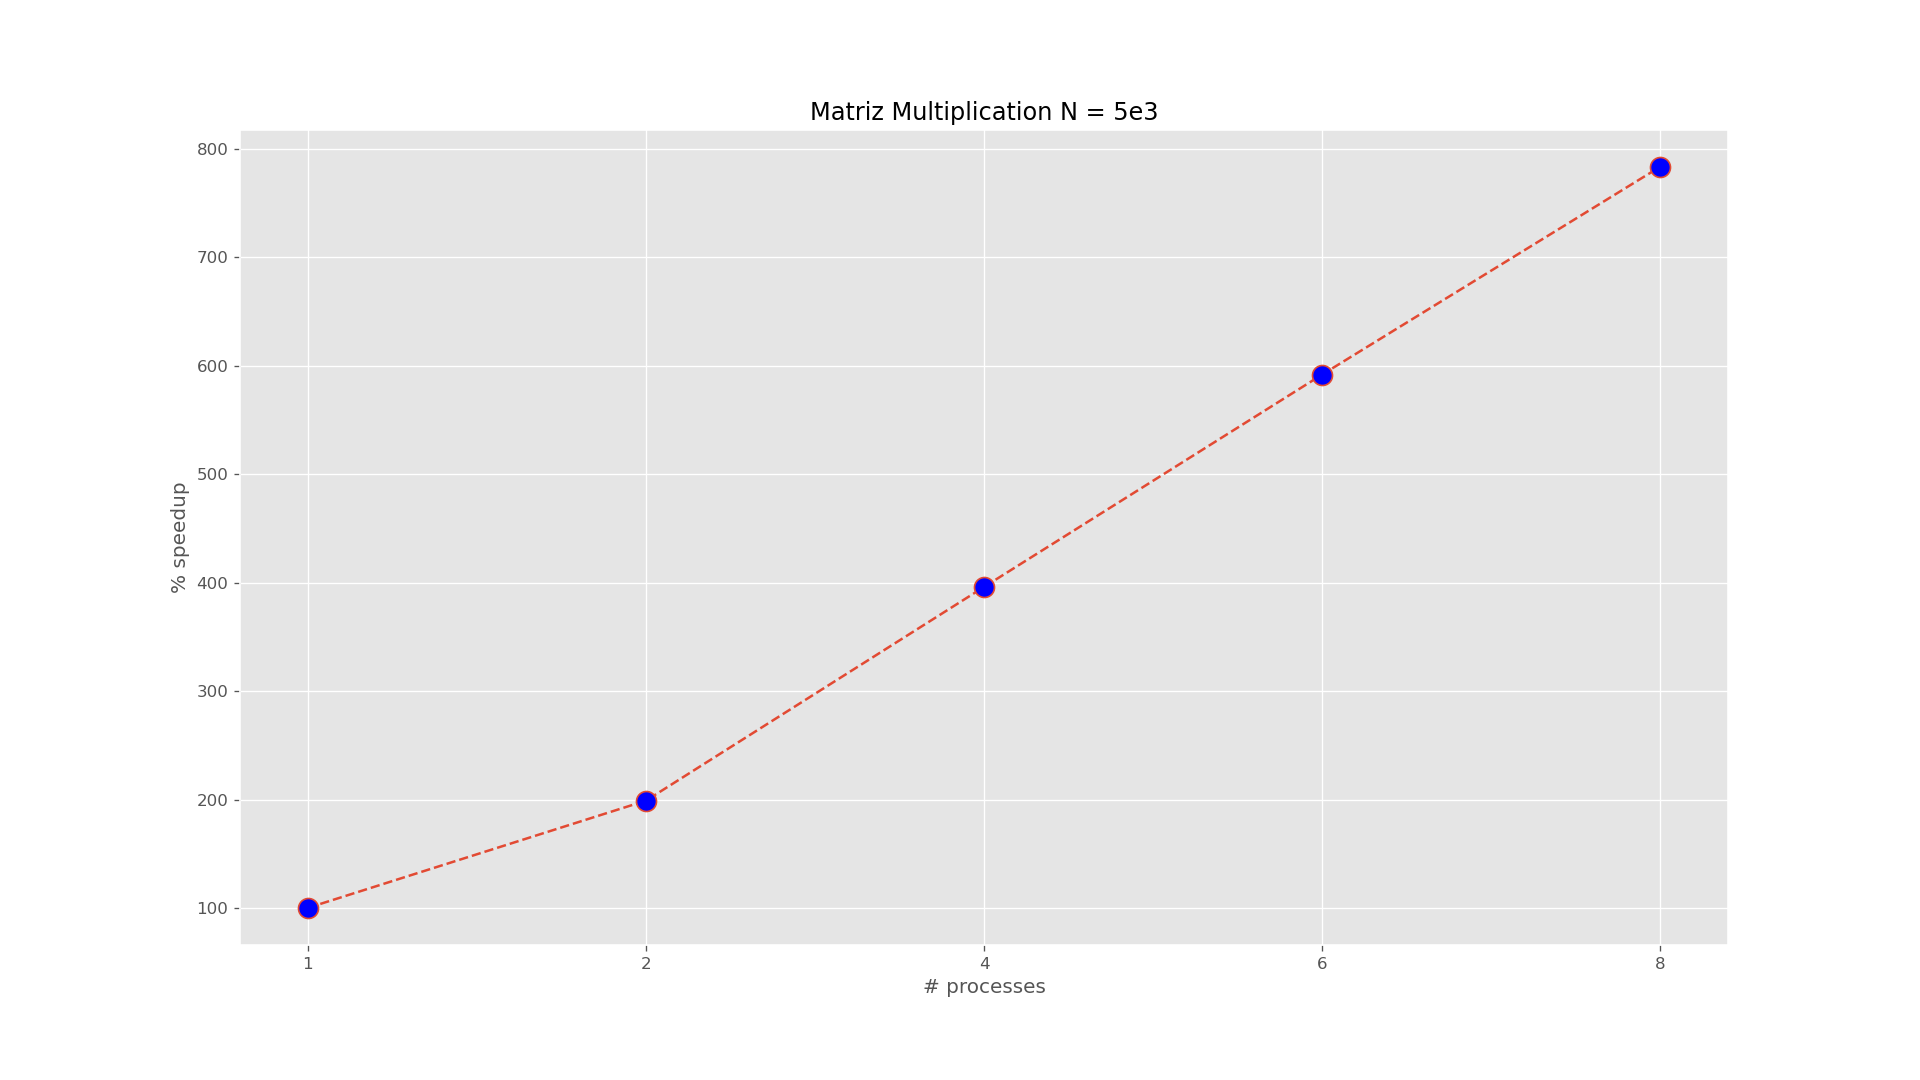
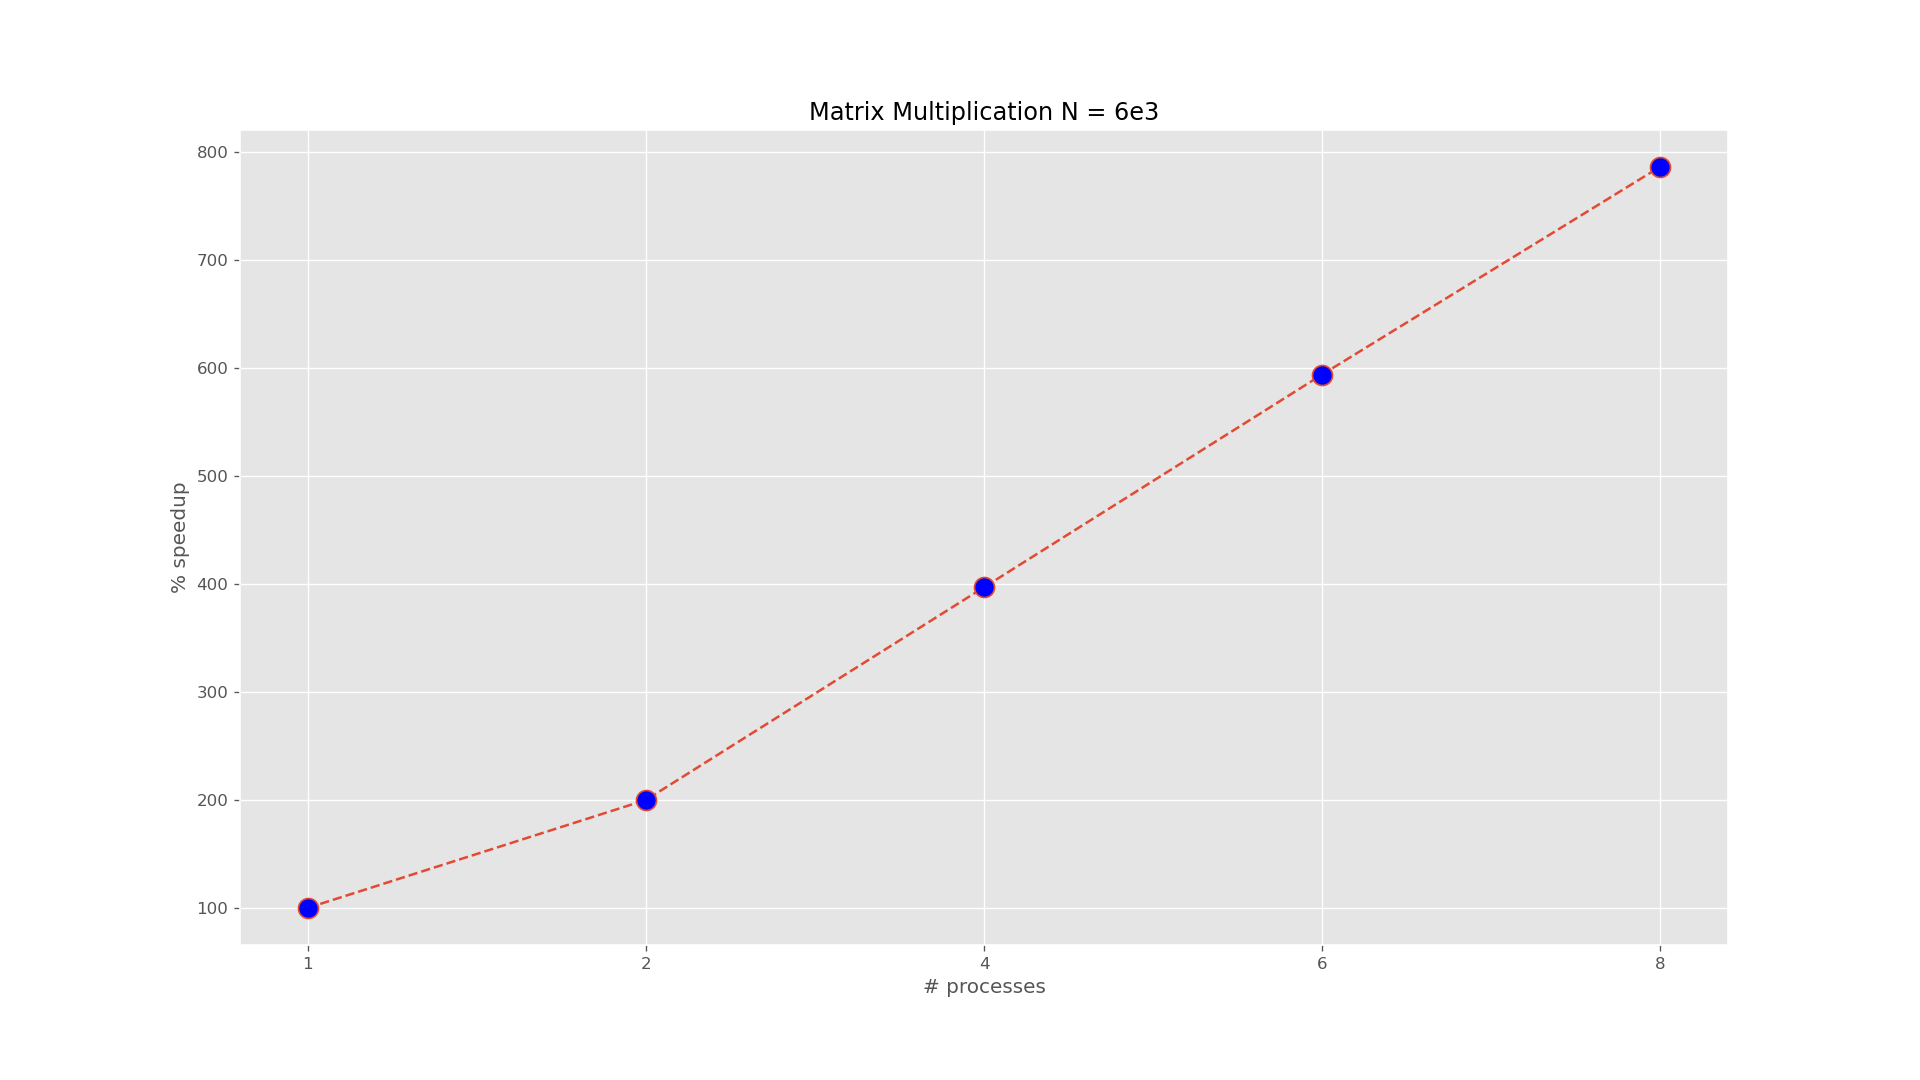
a07 - added plots for gather and N=6e3

diff --git a/atividades/atividade07/mtxMult_mpi.c b/atividades/atividade07/mtxMult_mpi.c
@@ -58,9 +58,9 @@ int main(int argc, char *argv[]) {
         {
             for (j = 0; j < N; j++)
             {
-                a[i * N + j] = 1.0 ;
-                b[j * N + i] = 1.0;
-                c[i * N + j] = -1.0;
+                a[i * N + j] = i%2 ? 1.0 : 3.0 ;
+                b[j * N + i] = i%2 ? 5.0 : 1.0;
+                c[i * N + j] = 0.0;
             }
         }
     }
@@ -81,9 +81,9 @@ int main(int argc, char *argv[]) {
     MPI_Reduce(&finish, &maxtime, 1, MPI_DOUBLE,MPI_MAX, 0, MPI_COMM_WORLD);
 
     if (rank == 0) {
-        printf("With N = %d.\n", N);
-        // print_matrix_linemajor(c, N, 1);
-        printf("Elapsed time for %d: %lf seconds\n", size, maxtime);
+        // printf("With N = %d.\n", N);
+        print_matrix_linemajor(c, N, 1);
+        // printf("Elapsed time for %d: %lf seconds\n", size, maxtime);
     }
 
     free(a);

diff --git a/atividades/atividade07/mtxMult.c b/atividades/atividade07/mtxMult.c
@@ -43,14 +43,14 @@ int main(int argc, char const *argv[])
     {
         for(int j = 0; j < n; j++)
         {
-            a[i][j] = 1.0;
-            b[i][j] = 1.0;
+            a[i][j] = i%2 ? 1.0 : 3.0;
+            b[i][j] = i%2 ? 5.0 : 1.0;
             c[i][j] = 0.0;
         }
     }
 
     mtxMul(c, a, b, n);
-    // print_matrix(c, n);
+    print_matrix(c, n);
 
     for(int i = 0; i < n; i++)
     {

diff --git a/atividades/atividade07/mtxMult_linemajor.c b/atividades/atividade07/mtxMult_linemajor.c
@@ -42,8 +42,8 @@ int main(int argc, char const *argv[])
     {
         for(int j = 0; j < n; j++)
         {
-            a[i * n + j] = 1.0;
-            b[i * n + j] = 1.0;
+            a[i * n + j] = i%2 ? 1.0 : 3.0;
+            b[j * n + i] = i%2 ? 5.0 : 1.0;
             c[i * n + j] = 0.0;
         }
     }
